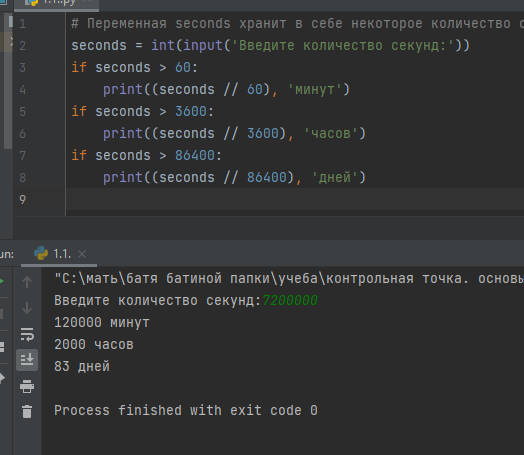
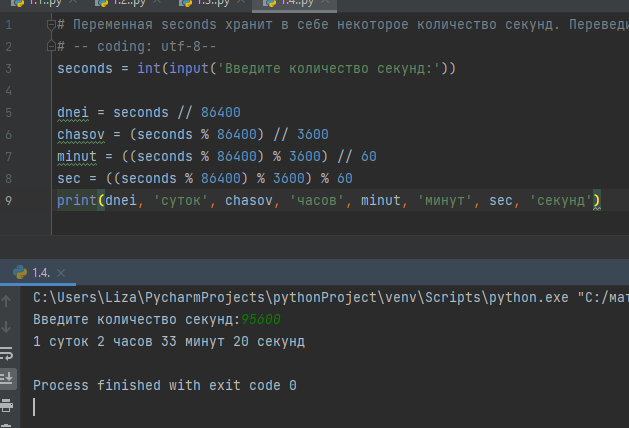
Add files via upload

diff --git a/1.3..py b/1.3..py
@@ -2,18 +2,13 @@
 # Проверить, что значение age больше 0 и меньше 75.
 # Проверить, что поступающего зовут не Иван.
 # Если Абитуериенту меньше 16 вывести на экран сколько лет ему еще учиться в школе.
-
-age = int(input('Введите возраст: '))
-if (age > 75)  or (age <= 0):
-    print ('Вы не входите в возрастной рейтинг, введите другой возраст')
-if age >= 16 and (age < 75):
-    print ('Поздравляем, вы поступили во ВГУИТ')
-if (age > 0) and (age < 16):
-    print ('Сначала нужно окончить школу!')
-    print ('Ваш возраст:', age)
-    print ('Вам осталось учиться в школе еще', (16-age), 'лет')
-name = str(input('Введите ваше имя '))
-if name == 'Иван':
-    print ('Иван обнаружен!!!')
+# -- coding: utf-8--
+age = int(input('введите ваш возраст: '))
+name = str(input('введите ваше имя: '))
+if age > 0 and age < 75 and name != 'Иван':
+    if age >= 16:
+        print('поздравляем,', name, ', вы поступили во ВГУИТ')
+    else:
+        print('Сначала нужно окончить школу, вам осталось учиться еще', 16-age)
 else:
-    print ('Рады видеть в рядах наших студентов,', name)
+    print('проверьте введенные данные')

diff --git a/1.4..py b/1.4..py
@@ -1,8 +1,9 @@
 # Переменная seconds хранит в себе некоторое количество секунд. Переведите это число в дни:часы:минуты:секунды.
+# -- coding: utf-8--
 seconds = int(input('Введите количество секунд:'))
-if seconds > 60:
-    print((seconds // 60), 'минут')
-if seconds > 3600:
-    print((seconds // 3600), 'часов')
-if seconds > 86400:
-    print((seconds // 86400), 'дней')
+
+dnei = seconds // 86400
+chasov = (seconds % 86400) // 3600
+minut = ((seconds % 86400) % 3600) // 60
+sec = ((seconds % 86400) % 3600) % 60
+print(dnei, 'суток', chasov, 'часов', minut, 'минут', sec, 'секунд')

diff --git a/1.7..py b/1.7..py
@@ -1,4 +1,5 @@
 # Проверьте является ли значение в переменной number - четным.
+# -- coding: utf-8--
 number = int(input('Введите значение '))
 if number % 2 == 0:
     print('значение четное')

diff --git a/1.6..py b/1.6..py
@@ -1,4 +1,5 @@
 # Поменяйте значения переменных x и y местами.
+# -- coding: utf-8--
 x = int(input('введите значение x '))
 y = int(input('введите значение y '))
 print( 'x=',x, 'y=',y)

diff --git a/1.2..py b/1.2..py
@@ -1,0 +1,2 @@
+# -- coding: utf-8--
+print ((1623*12302)%3092)
